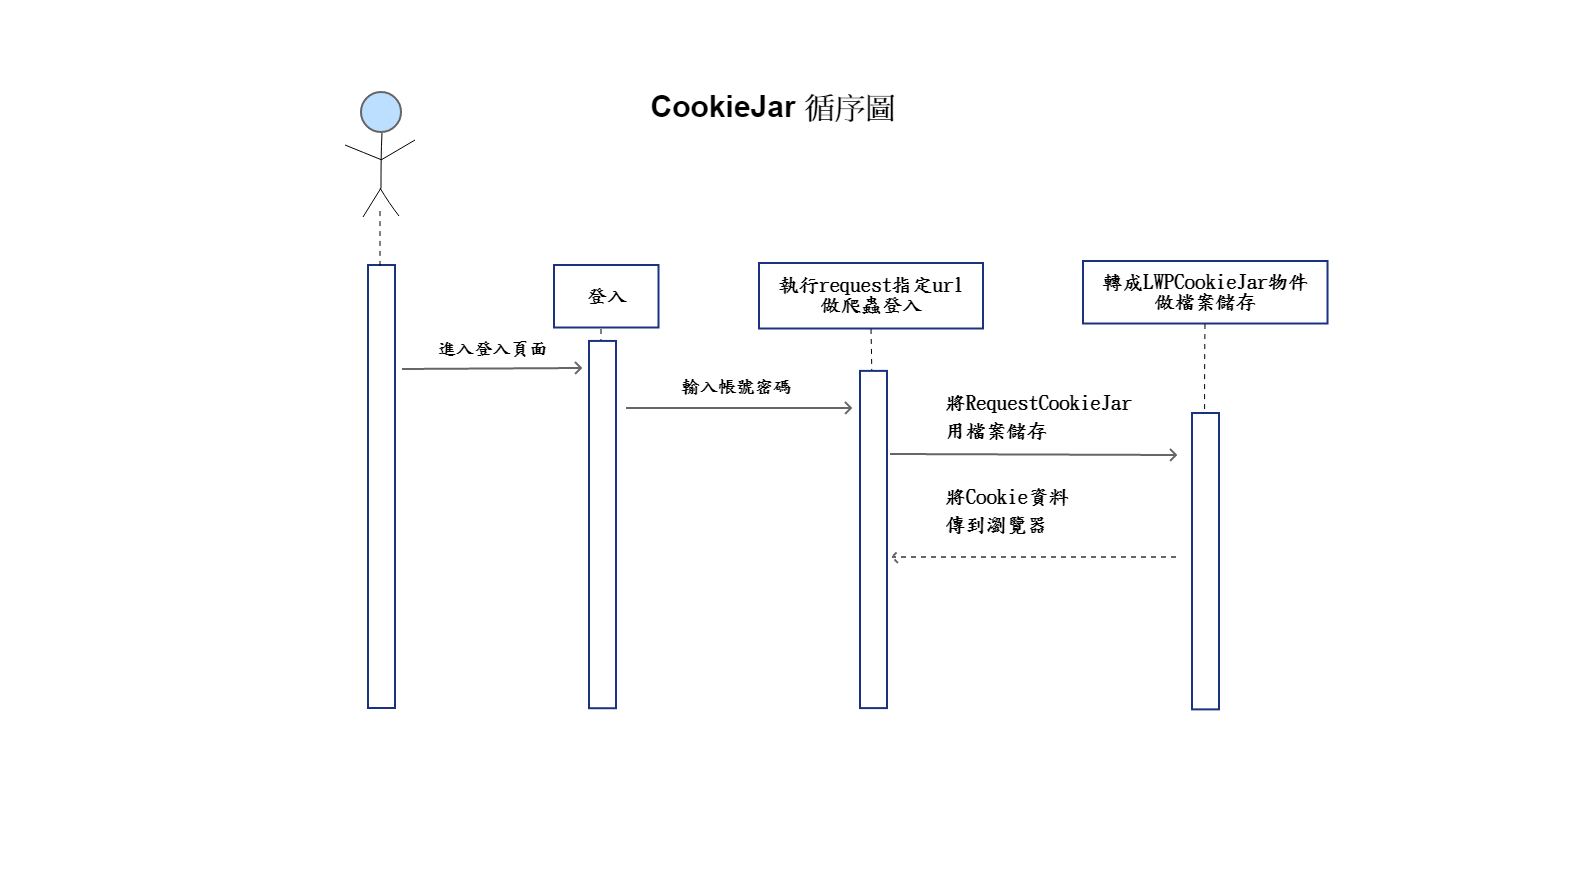
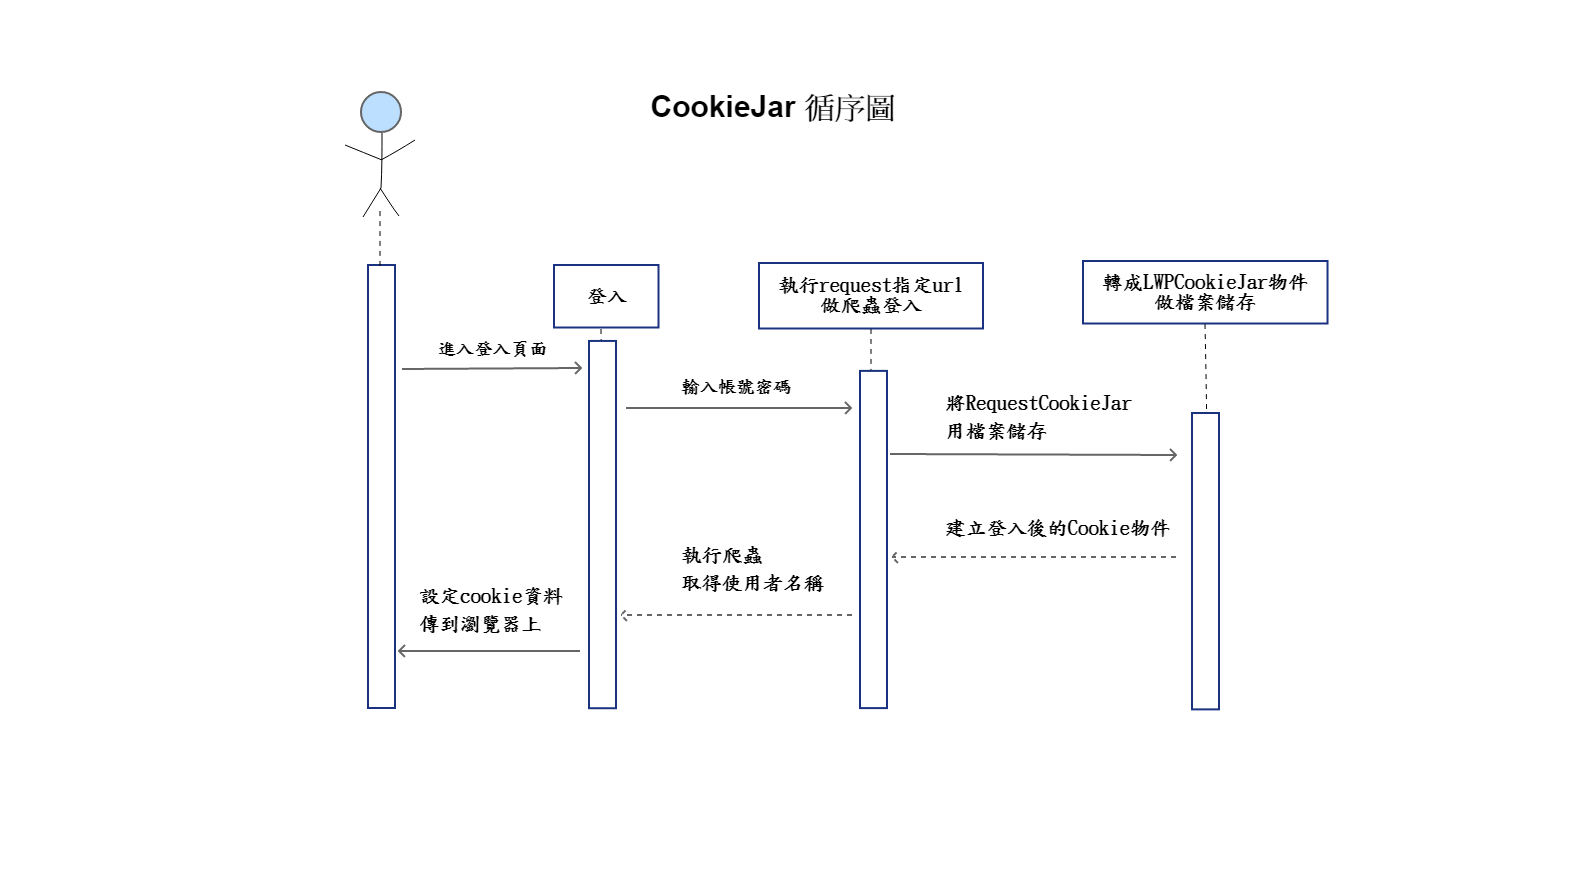
更新流程圖

Changed region(s): [[0.5855, 0.5548, 0.7396, 0.6164], [0.2465, 0.6781, 0.339, 0.7397], [0.4314, 0.6164, 0.5239, 0.6781]]

diff --git a/RequestCookieJar與LWPCookieJar兩種流程.md b/RequestCookieJar與LWPCookieJar兩種流程.md
@@ -12,7 +12,7 @@ summary: "說明RequestCookieJar與LWPCookieJar兩種流程"
 `RequestCookieJar`是`python`的`requests`套件的library，在請求任何網址時，會從中拿到瀏覽器的`cookie`記錄，在系統登入頁面輸入完帳號密碼，執行登入成功後，就會拿到`requests`套件的`cookie`。
 
 ```python
-impoty requests
+import requests
 
 #建立requests的session物件
 crawler = requests.Session()
@@ -136,8 +136,6 @@ scr.cyc.org.tw	FALSE	/	FALSE		ASP.NET_SessionId	ux23jhd4d204fo1qt5ysrtre
 
 `LWPCookie`是用標準的Set-Cookie格式記錄的cookie，`MozillaCookieJar`是兼容火狐(file fox)瀏覽器的cookie
 
-在爬蟲的時候
-
 
 
 ## 4.SimpleCookie
@@ -159,9 +157,23 @@ print(cookie.output())
 
 
 
+## 4種cookie物件差異
+
+|              | RequestCookieJar          | LWPCookieJar               | MozillaCookieJar           | SimpleCookie       |
+| ------------ | ------------------------- | -------------------------- | -------------------------- | ------------------ |
+| 類別         | cookieJar                 | FileCookieJar              | FileCookieJar              | cookieJar          |
+| 用途         | 指定url時，回傳cookie物件 | 使用cookie物件，用檔案儲存 | 使用cookie物件，用檔案儲存 | 建立cookie物件     |
+| 什麼時候適用 | 登入爬蟲                  | 儲存cookie記錄             | 儲存cookie記錄             | 可當作參數執行爬蟲 |
+
+想想還有哪些可以比較，(當要選擇其中一項時，要用什麼當作參考值??)
+
+
+
 ## 循序圖
 
 ![CookieJarUML](https://raw.githubusercontent.com/coolgood88142/markdown_note/master/assets/images/CookieJarUML.png)
+
+
 
 
 

diff --git a/運動爬蟲系統手冊.md b/運動爬蟲系統手冊.md
@@ -173,7 +173,7 @@ heroku的Buildpacks就會顯示新增的`heroku-buildpack-apt`
 
 #### Apt-file
 
-因為python的pip並沒有，以下這些套件可以安裝，需要新增Aptfile檔案，`heroku-buildpack-apt`就可以幫我們安裝套件
+有些套件python的pip無法安裝，需要新增Aptfile檔案安裝，`heroku-buildpack-apt`就可以幫我們安裝套件
 
 ```python
 #tesseract需要的套件
